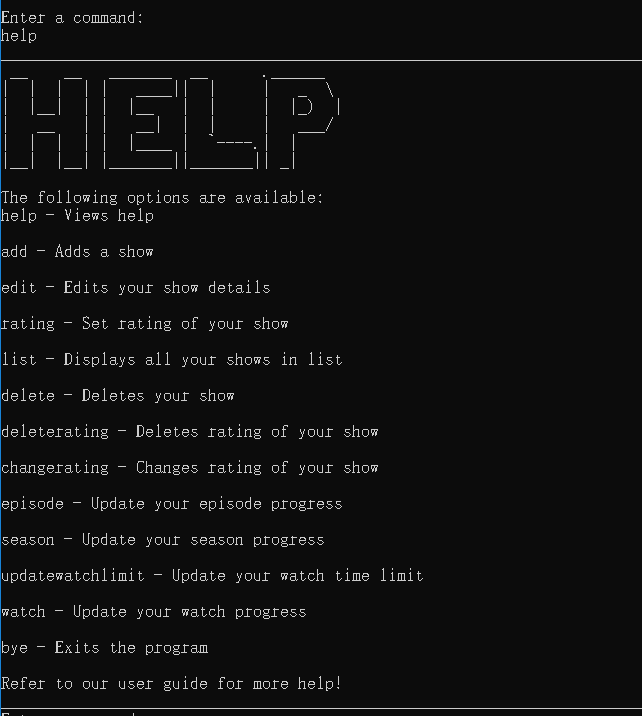
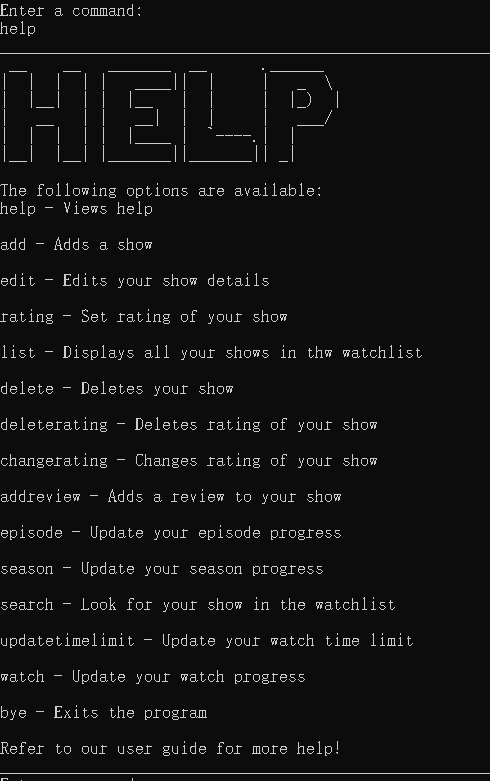
More changes to UG and add UI for addreview

diff --git a/src/main/java/seedu/duke/utility/Ui.java b/src/main/java/seedu/duke/utility/Ui.java
@@ -72,7 +72,7 @@ public class Ui {
                 + " \n"
                 + ("rating") + " - Set rating of your show\n"
                 + "\n"
-                + ("list") + " - Displays all your shows in list\n"
+                + ("list") + " - Displays all your shows in thw watchlist\n"
                 + "\n"
                 + ("delete") + " - Deletes your show\n"
                 + " \n"
@@ -80,11 +80,13 @@ public class Ui {
                 + "\n"
                 + ("changerating") + " - Changes rating of your show\n"
                 + "\n"
-                + ("addreview") + " - Adds a review of your show\n"
+                + ("addreview") + " - Adds a review to your show\n"
                 + "\n"
                 + ("episode") + " - Update your episode progress\n"
                 + "\n"
                 + ("season") + " - Update your season progress\n"
+                + "\n"
+                + ("search") + " - Look for your show in the watchlist\n"
                 + "\n"
                 + ("updatetimelimit") + " - Update your watch time limit\n"
                 + "\n"
@@ -154,6 +156,12 @@ public class Ui {
     public static void printChangeEpisode(String showName) {
         printLine();
         System.out.println("Updated current episode : " + ShowList.getShow(showName).toString());
+
+    }
+
+    public static void printReviewAdded(String showName) {
+        printLine();
+        System.out.println("Your review for " + showName + " has been added.");
 
     }
 

diff --git a/src/main/java/seedu/duke/commands/AddReviewCommand.java b/src/main/java/seedu/duke/commands/AddReviewCommand.java
@@ -1,7 +1,8 @@
 package seedu.duke.commands;
 
-import seedu.duke.utility.ShowList;
 import seedu.duke.classes.Show;
+import seedu.duke.utility.ShowList;
+import seedu.duke.utility.Ui;
 
 public class AddReviewCommand extends Command {
 
@@ -15,5 +16,6 @@ public class AddReviewCommand extends Command {
         s.setRating(Integer.parseInt(tokenizedInput[2]));
         s.setReview(String.join(" ", tokenizedInput[3]));
         ShowList.setShow(showName,s);
+        Ui.printReviewAdded(showName);
     }
 }

diff --git a/docs/UserGuide.md b/docs/UserGuide.md
@@ -17,11 +17,12 @@
     + [4.h. Change Rating](#4h-changerating---changes-rating-of-your-show)
     + [4.i. Update episode](#4i-episode---changes-the-episode-of-the-show-you-are-currently-watching)
     + [4.j. Update season](#4j-season---changes-the-season-of-the-show-you-are-currently-watching)
-    + [4.k. Adding a review](#4k-adding-a-review)     
+    + [4.k. Adding a review](#4k-addreview---adding-a-review)     
     + [4.l. Manage your watch time](#4l-managing-your-watch-time-limit)
         + [4.l.a Watching a show ](#4la-watch---watch-a-show-in-your-watchlist)
         + [4.l.b Updating your watch time limit](#4lb-updatetimelimit---update-your-watch-time-limit)
-    + [4.m. Exiting **WatchNext**](#4m-bye---exits-the-program)
+    + [4.m. Finding shows](#4m-search---search-a-show-in-the-watchlist)
+    + [4.n. Exiting **WatchNext**](#4n-bye---exits-the-program)
 - [5. Frequently Asked Questions](#5-faq)   
 - [6. Command Summary](#6-command-summary)   
 
@@ -67,7 +68,7 @@ Interested in using **WatchNext**? Jump to [Section 2: “Quick Start”](#2-qui
 
 Ensure that you have Java 11 installed in your Computer.
 
-1.Download the latest version from [here](https://github.com/AY2021S1-CS2113T-W12-3/tp).
+1.Download the latest version from [here](https://github.com/AY2021S1-CS2113T-W12-3/tp/releases).
 
 2.Copy the file to the folder you want to use as the home folder for your program.
 
@@ -87,8 +88,9 @@ Ensure that you have Java 11 installed in your Computer.
 
 *Words in `UPPER_CASE` and within the `<>` field are the parameters to be supplied by the user e.g. rating `<SCORE>`.
 
-*The maximum length for a Show `NAME` is 100 characters.
+*The maximum length for a Show `SHOWNAME` is 100 characters.
 
+*The `<SHOWNAME>` to be entered is case-sensitive.
 
 
 ## 4. Features
@@ -115,14 +117,22 @@ Expected outcome:
    `add <SHOWNAME> <SEASON> <NUMBER OF EPISODES PER SEASON,SEPERATED BY COMMAS> <DURATION OF EPISODE>`
    
    **[NOTE]**
-   The `<DURATION OF EPISODE>` is in minutes.
+   
+   *The `<DURATION OF EPISODE>` is in minutes.
+   
+   *If a show has 2 seasons, you will need to input two episodes (see example of usage below) for the `<NUMBER OF EPISODES PER SEASON,SEPERATED BY COMMAS>` field. The program will not add the show into the watchlist otherwise.
+   
+   *You will need to input `<SHOWNAME>` as one word. If the name of your show contains more than one word you will need to input the name with no spaces (example of usage below for `<RunningMan>`)
    
   Example of usage:
+  
   `add Friends 2 10,10 60`
+  
+  `add RunningMan 3 10,12,11 90`
  
  Expected outcome:
   
- <img src = "images/add.PNG" width = "500">
+ <img src = "images/add.PNG" width = "400">
   
  &nbsp;
  
@@ -135,24 +145,38 @@ Expected outcome:
      
    Example of usage:
     `edit Friends`
+ 
+ 
     
- Then you will be prompted to enter the fields you want to change such as:
+ You will be prompted thereafter to enter the fields you want to change such as:
  name, season, episode, duration(of an episode).
  
-    Example of usage:
+ Format:
+    `name <SHOWNAME>`, `season <NUMBER OF SEASONS>`, `episode <NUMBER OF EPISODES PER SEASON,SEPERATED BY COMMAS>`, `duration <DURATION OF EPISODE>`
+ 
+Example of usage:
      `name F.r.i.e.n.d.s` , `season 2`, `episode 10,11`, `duration 90`
+     
      
  When you have completed all changes, input `done`.
  
+**[NOTE]**
+
+*The `<DURATION OF EPISODE>` is in minutes.  
+
+*The program will wait for your command to edit the show details until you input `done`.
+
+
+ 
  Expected outcome:
   
- <img src = "images/edit.PNG" width = "500">
+ <img src = "images/edit.PNG" width = "550">
   
  &nbsp;
  
  To help you better understand the flow of this command we have included a program flow to illustrate the process.
  
- <img src = "images/programFlowUG.PNG" width = "500">
+ <img src = "images/programFlowUG.png" width = "500">
  
  <sub><sup>The blue bubbles represent the Program portion of the interaction, while the yellow bubbles indicate the user input</sup></sub>
 
@@ -160,21 +184,27 @@ Expected outcome:
  &nbsp;
  
 ### 4.d. `rating` - Modifies rating of your show
+
  The `rating` command gives a rating (out of 10) for an existing show in your watchlist.
  
    Format:
     `rating <SHOWNAME> <SCORE>`
+    
+**[NOTE]**
+
+*The `<SCORE>` is out of 10. The rating will not be added if it is not a value between 0 and 10.
     
    Example of usage:
    `rating Friends 9`
    
    Expected outcome:
     
-   <img src = "images/rating.PNG" width = "500">
+   <img src = "images/rating.PNG" width = "450">
     
    &nbsp;
  
 ### 4.e. `list` - Displays all your shows in the list
+
 The `list` command displays all existing shows in your watchlist in an easy-to-read format, including the episode and
 season that you are currently at.
 
@@ -191,6 +221,7 @@ season that you are currently at.
    &nbsp;
 
 ### 4.f. `delete` - Deletes your show
+
  The `delete` command removes a specified show from the watchlist.
  
  Format:
@@ -207,6 +238,7 @@ season that you are currently at.
   
  
 ### 4.g. `deleterating` - Deletes rating of your show
+
 The `deleterating` command deletes the rating for an existing show in the watchlist.
 
  Format:
@@ -217,27 +249,38 @@ The `deleterating` command deletes the rating for an existing show in the watchl
  
  Expected outcome:
   
- <img src = "images/deleterating.PNG" width = "500">
+ <img src = "images/deleterating.PNG" width = "400">
 
  &nbsp;
 
 ### 4.h. `changerating` - Changes rating of your show
+
 The `changerating` command changes the rating for an existing show which already has a rating in the watchlist.
 
  Format:
   `changerating <SHOWNAME> <NEWRATING>`
+  
+  **[NOTE]**
+  
+  *The `<NEWRATING>` is out of 10. The rating will not be added if it is not a value between 0 and 10.
   
  Example of usage:
  `changerating Friends 10`
  
  Expected outcome:
   
- <img src = "images/changerating.PNG" width = "500">
+ <img src = "images/changerating.PNG" width = "400">
   
  &nbsp;
 
 ### 4.i. `episode` - Changes the episode of the show you are currently watching
-The `episode` command updates the episode of an existing show in your watchlist.
+
+The `episode` command updates the current episode of an existing show in your watchlist.
+
+**[NOTE]**
+
+*This command changes the current episode that you are watching in your watch history. To change the number of episodes a show has, use the [edit](#4c-edit---edits-your-show-details) command. 
+[comment]: <> (Think I need help with explaining this better)
 
  Format:
   `episode <SHOWNAME> <EPISODE>`
@@ -252,7 +295,13 @@ The `episode` command updates the episode of an existing show in your watchlist.
  &nbsp;
  
 ### 4.j. `season` - Changes the season of the show you are currently watching
-The `season` command updates the season of an existing show in your watchlist.
+
+The `season` command updates the current season of an existing show in your watchlist.
+
+**[NOTE]**
+
+*This command changes the current season that you are watching in your watch history. To change the number of episodes a show has, use the [edit](#4c-edit---edits-your-show-details) command. 
+[comment]: <> (Think I need help with explaining this better)
 
  Format:
   `season <SHOWNAME> <SEASON>`
@@ -267,13 +316,20 @@ The `season` command updates the season of an existing show in your watchlist.
  &nbsp;
 
 ### 4.k. `addreview` - Adding a review
-The `addreview` command allows us to add a review for a show, including adding a rating.
+
+The `addreview` command allows you to add a review for a show, including adding a rating.
 
  Format:
   `addreview <SHOWNAME> <RATING> <REVIEW>`
   
  Example of usage:
- `addreview Friends 3`
+ `addreview Friends 9 cool show `
+ 
+  Expected outcome:
+   
+  <img src = "images/addreview.PNG" width = "450">
+
+   &nbsp;
 
 ### 4.l. Managing your watch time limit
 
@@ -291,7 +347,7 @@ The `watch` command increments the current episode that you are on, and updates 
  
  Expected outcome:
   
- <img src = "images/watch.PNG" width = "500">
+ <img src = "images/watch.PNG" width = "550">
   
  &nbsp;
 
@@ -303,35 +359,42 @@ The `updatetimelimit` command updates your current watch time limit.
   `updatetimelimit <DURATION LIMIT> `
   
   **[NOTE]**
- 1. `<DURATION LIMIT>` should be entered in minutes. Your set duration will be stored until the next day.
- 2. If you have watched a show before updating your time limit, it will automatically be taken into account after you enter the `updatetimelimit` command.
+  
+ * `<DURATION LIMIT>` should be entered in minutes. Your set duration will be stored until the next day.
+ 
+ * If you have watched a show before updating your time limit, it will automatically be taken into account after you enter the `updatetimelimit` command.
  
  Example of usage:
- `updatetimelimit 420 `
+ `updatetimelimit 120 `
  
  Expected outcome:
   
- <img src = "images/updatetimelimit.PNG" width = "500">
+ <img src = "images/updatetimelimit.PNG" width = "600">
   
  &nbsp;
 
 ### 4.m. `search` - search a show in the watchlist  
 
-The `search` command searches a specific show in the watchlist and prints out the show information.  
+The `search` command searches for a specific show in the watchlist and prints out the show information.  
 
  Format:
  `search <SHOWNAME>`  
  
  Example of usage:
  `search Friends`  
+ 
+ **[NOTE]**
+ 
+ *The `<SHOWNAME>` is case-sensitive.
   
  Expected output:
  
- <img src = "images/searchshows.png" width = "500">  
+ <img src = "images/searchshows.png" width = "550">  
  
  &nbsp;
   
 ### 4.n. `bye` - Exits the program
+
 The `bye` command exits the program.
 
 Format:
@@ -366,8 +429,8 @@ Expected outcome:
 
 **Q**: What format should I use if I want to track my lectures?  
 
-**A**:  
-
+**A**: A suggested format would be `add <MODULENAME> <TOPICS> <NUMBER OF LECTURES PER TOPIC,SEPERATED BY COMMAS> <DURATION OF LECTURE>`.However, feel free to be creative and think of a format that suits you!
+[comment]: <> (Is this answer ok?)
 
 
 
@@ -376,6 +439,9 @@ Expected outcome:
 
 
 ### 6. Command Summary
+
+This section showcases the list of available features and usage examples for your reference.
+             
 
 |Action|Format|Example|
 |--------|----------|---------------|
